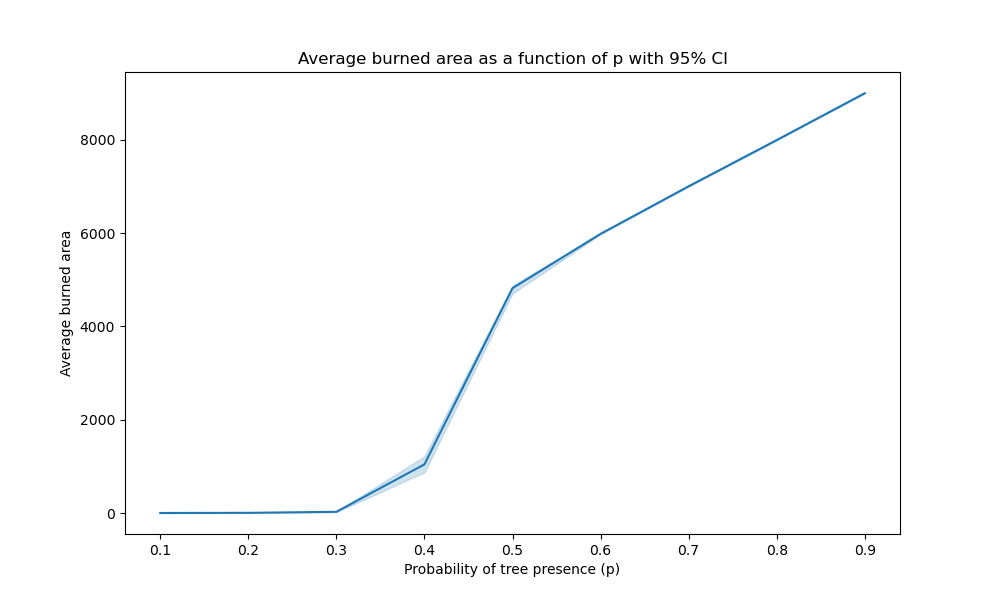
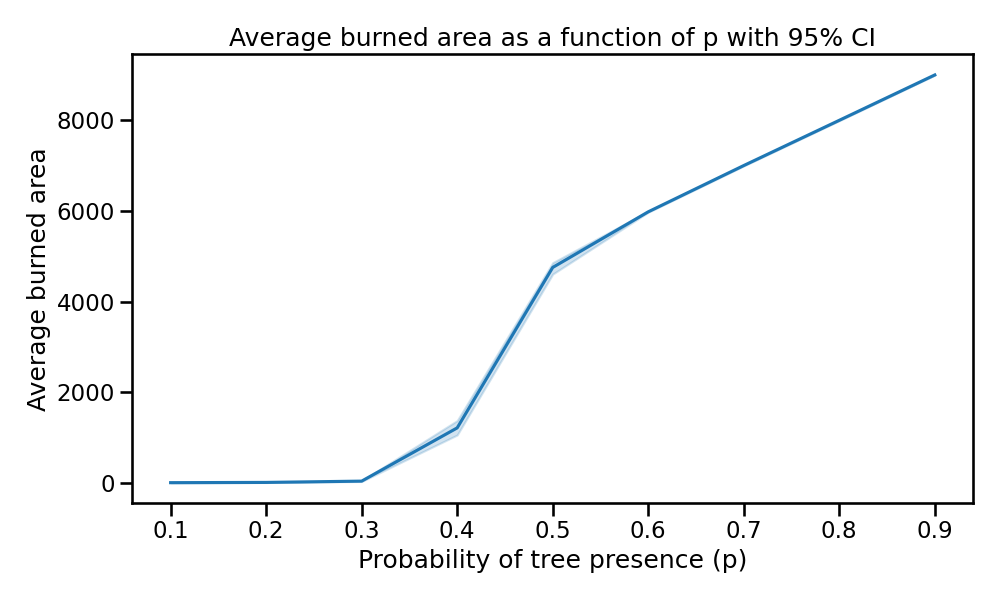
Modify Q11.9

diff --git a/homeworks/HW2/scripts/Q11.9/forest_fire.py b/homeworks/HW2/scripts/Q11.9/forest_fire.py
@@ -69,12 +69,15 @@ results_burned_area, results_stop_time = monte_carlo_simulation(size, p_values, 
 df_burned_area = pd.DataFrame(results_burned_area, columns=['p', 'burned_area'])
 df_stop_time = pd.DataFrame(results_stop_time, columns=['p', 'stop_time'])
 
+sns.set_context('talk')
+
 # Plot the results for burned area
 plt.figure(figsize=(10, 6))
 sns.lineplot(x='p', y='burned_area', data=df_burned_area, ci=95)
 plt.xlabel('Probability of tree presence (p)')
 plt.ylabel('Average burned area')
 plt.title('Average burned area as a function of p with 95% CI')
+plt.tight_layout()
 plt.savefig('../../simulation_figures/Q11.9/burned area.png')
 
 # Plot the results for stop time
@@ -83,6 +86,7 @@ sns.lineplot(x='p', y='stop_time', data=df_stop_time, ci=95)
 plt.xlabel('Probability of tree presence (p)')
 plt.ylabel('Time until fire stops')
 plt.title('Time until fire stops as a function of p with 95% CI')
+plt.tight_layout()
 plt.savefig('../../simulation_figures/Q11.9/time_stop.png')
 
 # Compare the final results for different values of p

diff --git a/homeworks/HW2/scripts/Q11.9/spatial_simulation.py b/homeworks/HW2/scripts/Q11.9/spatial_simulation.py
@@ -63,6 +63,7 @@ runs = 100
 # Run the Monte Carlo simulation
 results_burned_area, results_stop_time = monte_carlo_simulation(size, p_values, steps, runs)
 
+sns.set_context('talk')
 # Plotting one trial of CA spatial simulations per p for comparison
 def plot_one_trial_per_p(size, p_values):
     cmap = plt.cm.get_cmap('gray', 4)  # Create a colormap with 4 colors
